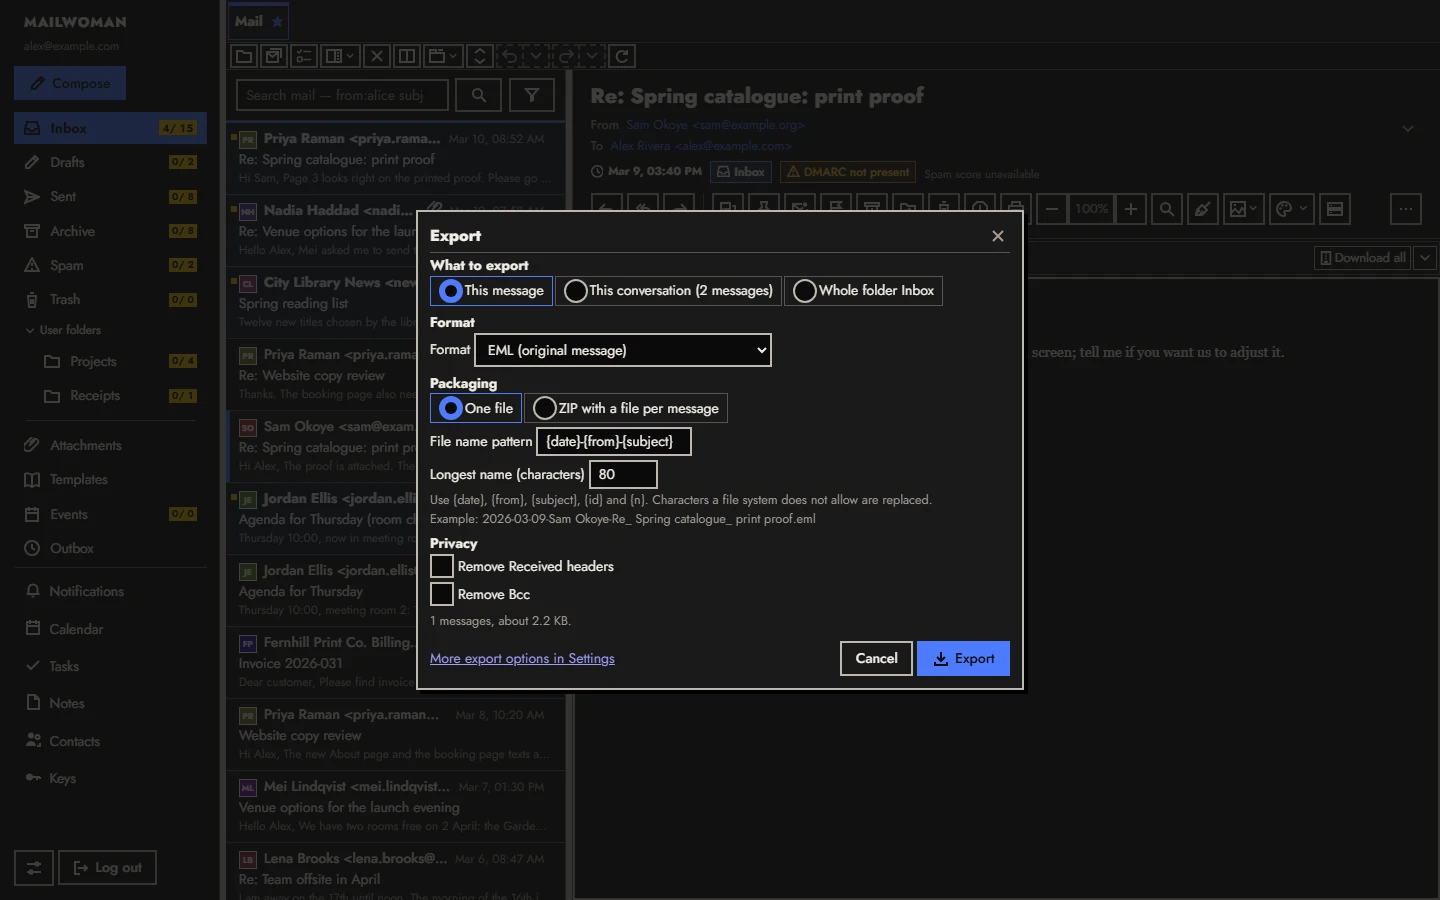
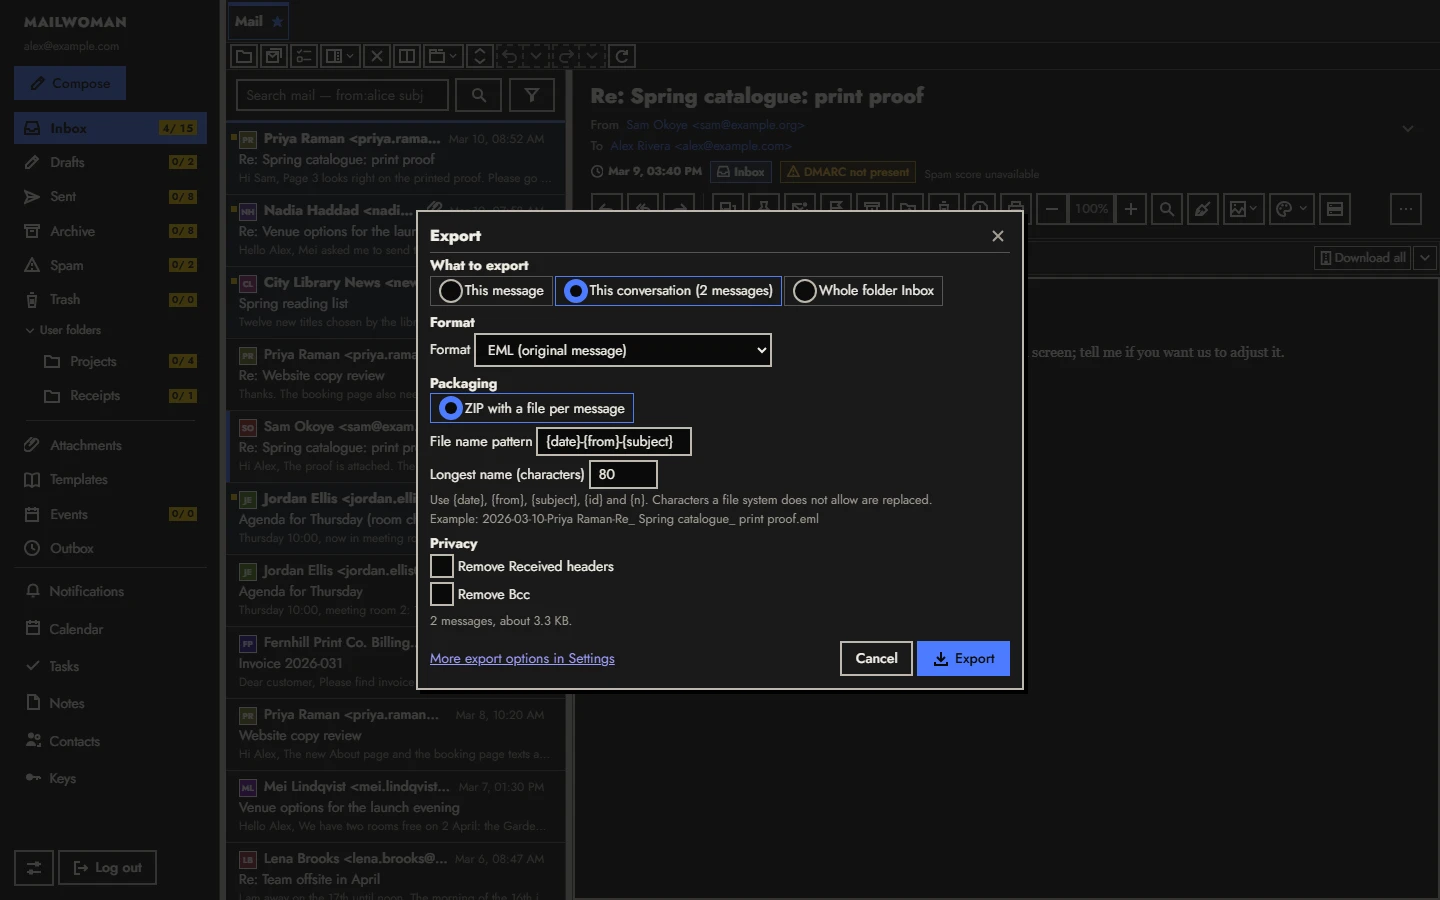
docs(integrations): fix fact-check findings in plugin, bridge and export pages

diff --git a/docs/export/index.md b/docs/export/index.md
@@ -6,7 +6,7 @@ title: Exporting messages
 
 You can download a message, a conversation, a selection of messages or a whole folder in a format you choose. The server writes EML, mbox, plain text, Markdown, MSG and DOCX files. The web client builds CSV and JSON summaries from the message list, and a PDF comes from your browser's print function.
 
-![The Export dialog opened over the mailbox for one message, with What to export, Format set to EML, Packaging, File name pattern, Privacy options and the size estimate.](/screenshots/integrations/export-dialog.webp){.mw-shot}
+![The Export dialog opened over the mailbox for a conversation of two messages, with What to export, Format set to EML, Packaging set to ZIP, File name pattern, Privacy options and the size estimate.](/screenshots/integrations/export-dialog.webp){.mw-shot}
 
 ## Before you start
 
@@ -21,7 +21,7 @@ You can download a message, a conversation, a selection of messages or a whole f
 3. Choose a **Format**.
 4. Under **Packaging**, choose **One file** or **ZIP with a file per message**. Formats that cannot hold several messages in one file (everything except MBOX, CSV and JSON) offer the ZIP only. A folder is always a ZIP.
 5. Optionally change the **File name pattern**. Use `{date}`, `{from}`, `{subject}`, `{id}` and `{n}`; characters a file system does not allow are replaced. **Longest name (characters)** limits the length (20 to 200, default 80). The dialog shows an **Example**.
-6. For EML and MBOX you can tick **Remove Received headers** or **Remove Bcc**. Removing headers changes the message, so a signature on it no longer verifies.
+6. For EML and MBOX you can tick **Remove Received headers**. **Remove Bcc** is offered for every format. Removing headers changes the message, so a signature on it no longer verifies.
 7. For a folder, tick **Include subfolders** if you want them.
 8. Read the size estimate (**n messages, about size**) and choose **Export**. Choose **Stop** to cancel a running export, and **Download again** when it finishes.
 

diff --git a/docs/plugins/index.md b/docs/plugins/index.md
@@ -86,7 +86,7 @@ The effective grant is the capabilities the plugin declares that the administrat
 
 A first-party component loads only if its SHA-256 digest equals the digest built into the server. A file that does not match is skipped and logged.
 
-A third-party component is a `<id>.wasm` file in the third-party directory. The **Third-party allowlist** at the bottom of the **Plugins** page lists the files found with the SHA-256 the server computed. Approving a digest pins those exact bytes and asks you to type the id. Revoking removes the approval and disables the plugin. The registration form has no signature field, so a third-party plugin runs only when **Allow this unsigned plugin to run** is on for it; a banner then reports that an unsigned plugin is loaded.
+A third-party component is a `<id>.wasm` file in the third-party directory. The **Third-party plugin allowlist** at the bottom of the **Plugins** page lists the files found with the SHA-256 the server computed. Approving a digest pins those exact bytes and asks you to type the id. Revoking removes the approval and disables the plugin. The registration form has no signature field, so a third-party plugin runs only when **Allow this unsigned plugin to run** is on for it; a banner then reports that an unsigned plugin is loaded.
 
 Third-party components cannot hold `account-backend`. In practice the only third-party plugin the server calls is a spam classifier.
 

diff --git a/docs/bridges/index.md b/docs/bridges/index.md
@@ -28,7 +28,7 @@ The Graph and EWS plugins contain more code than the server uses. Copying provid
 A bridge loads for a mailbox only when all of these hold:
 
 1. The plugin is approved, enabled and granted the `account-backend` and `net` capabilities in **Admin → Plugins**. See [Plugins](../plugins/index.md#approve-and-enable).
-2. The permission switches for the plugin are on: **Plugins** and, for the Microsoft and Google bridges, **Microsoft bridge** and **Google bridge** under **Integration permissions** in the admin settings (`cap.plugins`, `cap.integration.microsoft`, `cap.integration.google`).
+2. The permission switches for the plugin are on: **Plugins** (`cap.plugins`), the individual integration permission for the plugin (**Individual integration**, `cap.integration.*`, default on) and, for the Microsoft and Google bridges, **Microsoft bridge** and **Google bridge** under **Integration permissions** (`cap.integration.microsoft`, `cap.integration.google`).
 3. The mailbox is bound to the bridge, by a completed provider connection (Graph, Gmail) or by a domain configured with an EWS backend.
 
 A change to the plugin registry takes effect for running bridges at once when it removes permission. Starting a bridge that was not running needs a server restart, except the EWS activation that happens when a user signs in on a configured domain.

diff --git a/docs/plugins/masked-email.md b/docs/plugins/masked-email.md
@@ -17,7 +17,7 @@ This page is not about the `plugins/masked-email` source in the repository. That
 
 - The server runs in engine mode.
 - The feature **masked** is on (`cap.masked`, default on) for the user.
-- Choose the alias domain with the setting `maskedEmail.domain` (environment `MW_MASKED_EMAIL_DOMAIN`). When it is empty, aliases are created under the domain of the signed-in address. The admin settings help says an empty value turns masked addresses off; the server does not do that, so set the permission rather than relying on an empty domain.
+- Choose the alias domain with the environment variable `MW_MASKED_EMAIL_DOMAIN`. The settings registry lists a key `maskedEmail.domain`, but the server does not read it; only the environment variable has an effect. When the variable is empty or unset, aliases are created under the domain of the signed-in address. The admin settings help says an empty value turns masked addresses off; the server does not do that, so set the permission rather than relying on an empty domain.
 
 ## Manage aliases
 

diff --git a/docs/plugins/spam-trainers.md b/docs/plugins/spam-trainers.md
@@ -16,7 +16,7 @@ When a new message arrives in an Inbox, the server sends its raw bytes to the cl
 - **ham**: nothing changes.
 - **unknown**: nothing changes. This is the result when the filter is unreachable, answers with an error status, returns more than 1 MiB or returns malformed data. A failure never blocks or drops a message.
 
-Messages delivered to other folders are not classified. The server records a content-free audit event, `spam.classified`, with the verdict only. If no classifier is loaded, delivery is unchanged.
+Messages delivered to other folders are not classified. When the verdict is spam, the server records a content-free audit event, `spam.classified`. Ham and unknown verdicts are not recorded. If no classifier is loaded, delivery is unchanged.
 
 Only one classifier runs at a time: the first approved, enabled plugin in id order that has the `spam-action` grant and a component that passes the digest check. The page of any other classifier shows **Not loaded: another spam classifier is loaded. Only one runs at a time.**
 

diff --git a/docs/integrations/nextcloud.md b/docs/integrations/nextcloud.md
@@ -33,7 +33,7 @@ Before an administrator approves an instance, the section reads **No enabled Nex
 6. Turn on **Allow users to link this instance**.
 7. Save.
 
-![The Add Nextcloud instance form filled in with the display name Team cloud, the URL https://cloud.example.org/ and Allow users to link this instance ticked.](/screenshots/integrations/admin-nextcloud-form.webp){.mw-crop}
+![The Instance authority section of the Add Nextcloud instance form, filled in with the display name Team cloud, the URL https://cloud.example.org/ and Allow users to link this instance ticked.](/screenshots/integrations/admin-nextcloud-form.webp){.mw-crop}
 
 After saving, the **Nextcloud** page lists the instance with its **Display name**, **HTTPS installation URL** and **Status**. The pencil button edits it.
 
